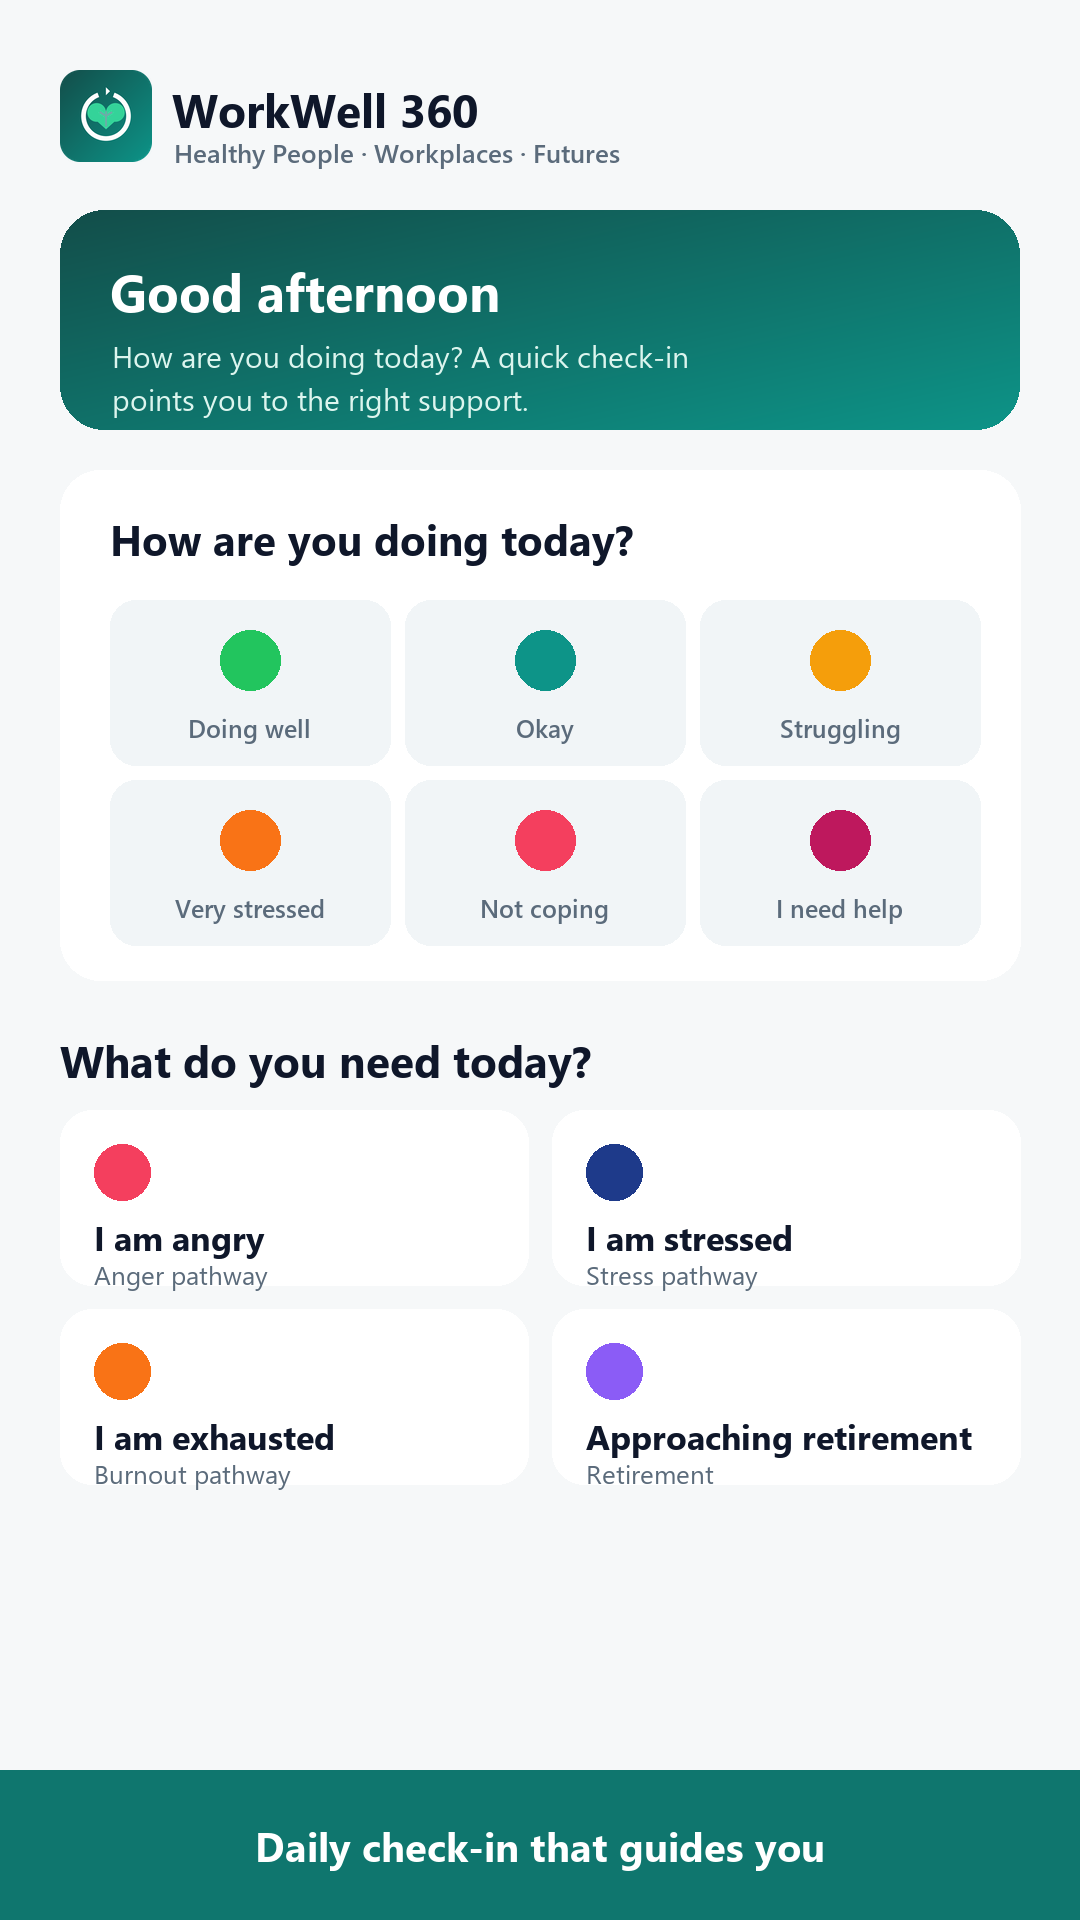
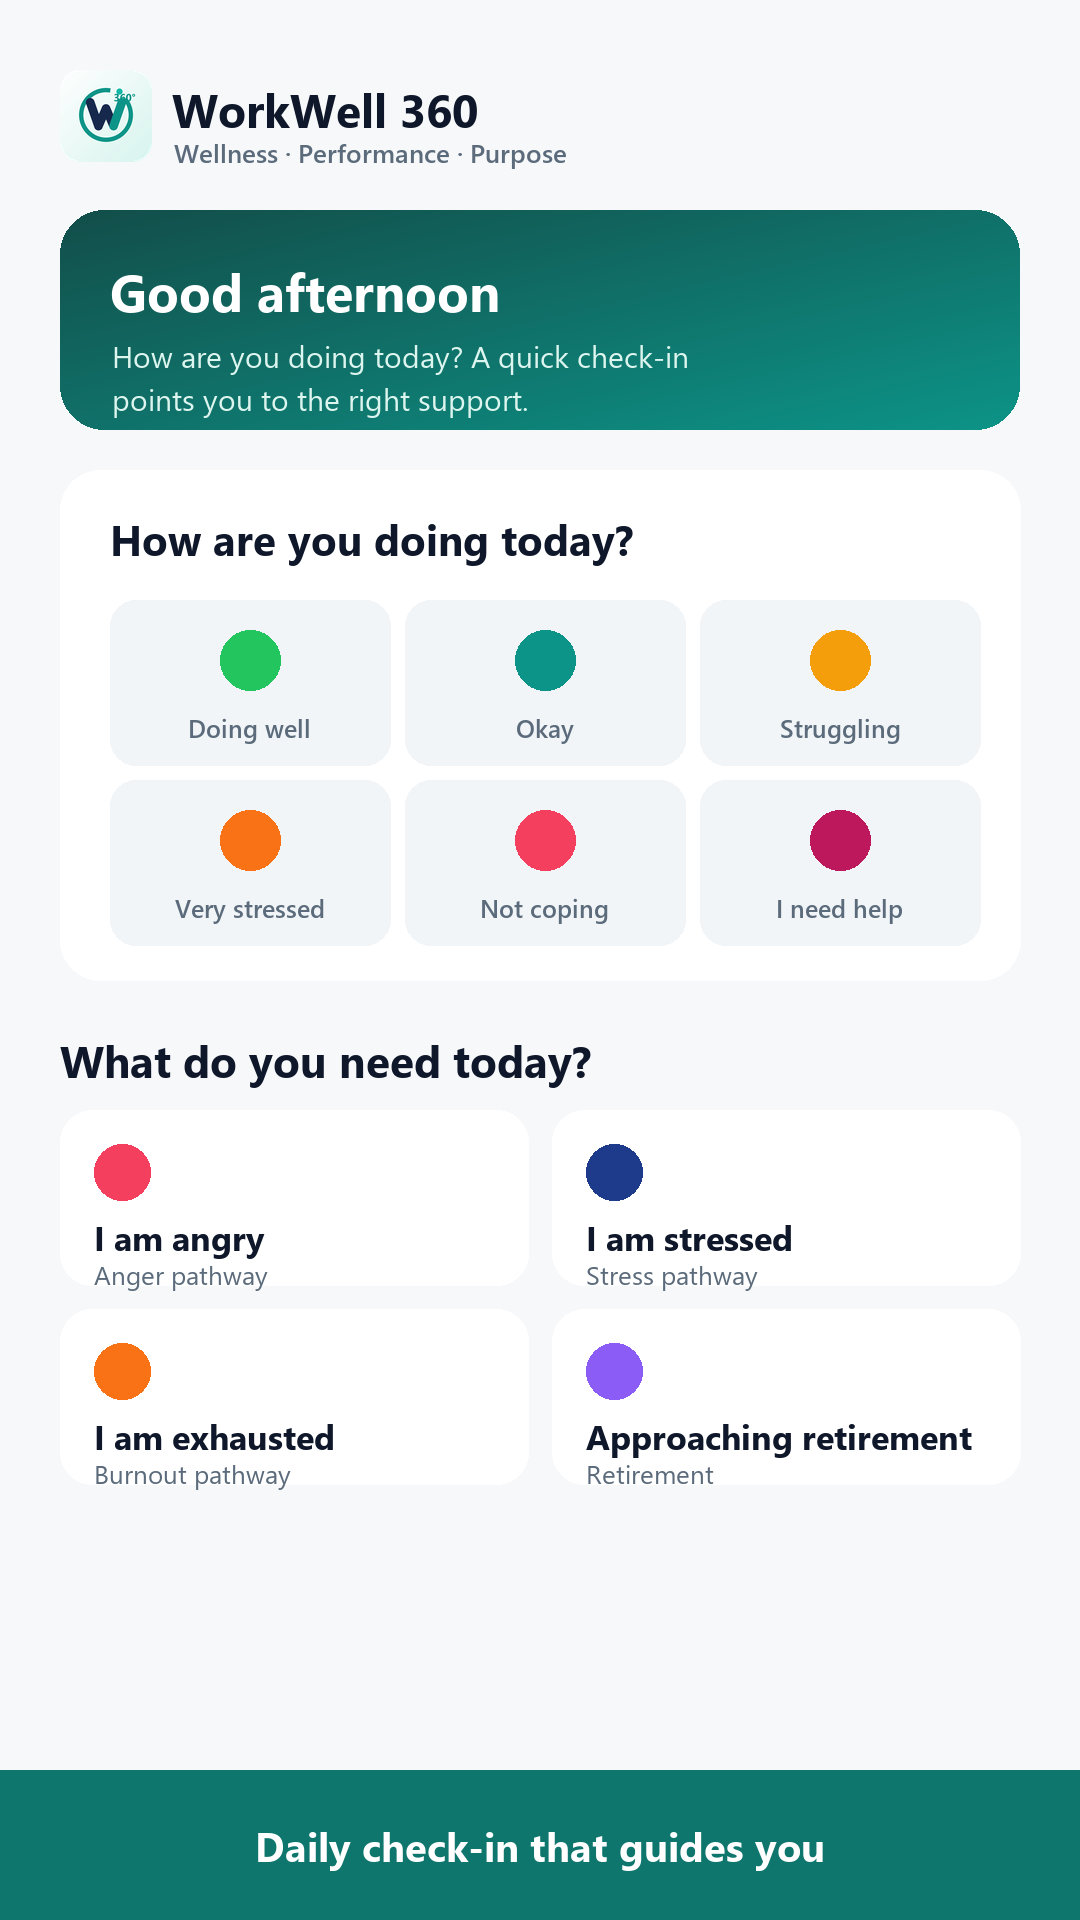
feat(brand): switch tagline to "Wellness. Performance. Purpose."
- Update tagline across app (onboarding, brandbar, about), index meta, manifest,
  README, Play listing short description
- Regenerate feature graphic + screenshots with new logo and tagline
- Bump service-worker cache ww360-v2 -> v3 so installed users receive the change

Changed region(s): [[0.0306, 0.0312, 0.55, 0.0938]]

diff --git a/js/views/core.js b/js/views/core.js
@@ -16,7 +16,7 @@ function onboarding() {
         <div style="display:flex;align-items:center;gap:12px;margin-bottom:10px">
           <img src="icons/icon.svg" width="46" height="46" alt="" style="border-radius:12px;background:#fff;padding:2px"/>
           <div><div style="font-weight:800;font-size:1.3rem">WorkWell 360</div>
-          <div style="font-size:.8rem;opacity:.9">Healthy People. Healthy Workplaces. Healthy Futures.</div></div>
+          <div style="font-size:.8rem;opacity:.9">Wellness. Performance. Purpose.</div></div>
         </div>
         <p>A complete workplace mental-wellness and retirement-transition companion — from everyday stress to a healthy retirement.</p>
       </div>
@@ -64,7 +64,7 @@ function dashboard() {
     html: html`
       <div class="brandbar">
         <img class="logo" src="icons/icon.svg" alt=""/>
-        <div><div class="tt">WorkWell 360</div><div class="tag">Healthy People · Workplaces · Futures</div></div>
+        <div><div class="tt">WorkWell 360</div><div class="tag">Wellness · Performance · Purpose</div></div>
       </div>
 
       <div class="hero">
@@ -453,7 +453,7 @@ function about() {
   return {
     html: html`
       ${appbar('About WorkWell 360')}
-      <div class="hero"><h1 style="font-size:1.2rem">Healthy People.<br>Healthy Workplaces.<br>Healthy Futures.</h1>
+      <div class="hero"><h1 style="font-size:1.2rem">Wellness.<br>Performance.<br>Purpose.</h1>
         <p>From workplace stress to workplace well-being — and from employment to a healthy retirement.</p></div>
       <div class="card"><h3>One journey, fully covered</h3>
         <p class="muted">Most wellness apps stop at the working years. WorkWell 360 covers the whole arc:</p>

diff --git a/index.html b/index.html
@@ -5,7 +5,7 @@
   <meta name="viewport" content="width=device-width, initial-scale=1, viewport-fit=cover" />
   <meta name="theme-color" content="#0f766e" media="(prefers-color-scheme: light)" />
   <meta name="theme-color" content="#0b1220" media="(prefers-color-scheme: dark)" />
-  <meta name="description" content="WorkWell 360 — Healthy People. Healthy Workplaces. Healthy Futures. A complete workplace mental-wellness and retirement-transition ecosystem." />
+  <meta name="description" content="WorkWell 360 — Wellness. Performance. Purpose. A complete workplace mental-wellness and retirement-transition ecosystem." />
   <link rel="manifest" href="manifest.webmanifest" />
   <link rel="icon" href="icons/icon.svg" type="image/svg+xml" />
   <link rel="apple-touch-icon" href="icons/icon-192.png" />

diff --git a/css/app.css b/css/app.css
@@ -1,6 +1,6 @@
 /* ===========================================================
    WorkWell 360 — design system
-   Healthy People. Healthy Workplaces. Healthy Futures.
+   Wellness. Performance. Purpose.
    =========================================================== */
 :root {
   --teal-900:#134e4a; --teal-700:#0f766e; --teal-600:#0d9488; --teal-500:#14b8a6;

diff --git a/sw.js b/sw.js
@@ -1,5 +1,5 @@
 /* WorkWell 360 — service worker (offline-first app shell) */
-const CACHE = 'ww360-v2';
+const CACHE = 'ww360-v3';
 const ASSETS = [
   './', './index.html', './css/app.css', './manifest.webmanifest',
   './icons/icon.svg', './icons/icon-192.png', './icons/icon-512.png',

diff --git a/playstore/listing.md b/playstore/listing.md
@@ -2,7 +2,7 @@
 
 **App name:** WorkWell 360
 **Short description (max 80 chars):**
-> Healthy People. Healthy Workplaces. Healthy Futures. Wellbeing to retirement.
+> Wellness. Performance. Purpose. Workplace wellbeing to a healthy retirement.
 
 **Full description:**
 > WorkWell 360 is a complete workplace mental-wellness and retirement-transition companion —

diff --git a/README.md b/README.md
@@ -1,6 +1,6 @@
 # WorkWell 360
 
-**Healthy People. Healthy Workplaces. Healthy Futures.**
+**Wellness. Performance. Purpose.**
 
 A complete **workplace mental-wellness and retirement-transition ecosystem** — not just a
 counselling-booking app. Built as an installable, offline-capable **PWA**, ready to wrap for the
